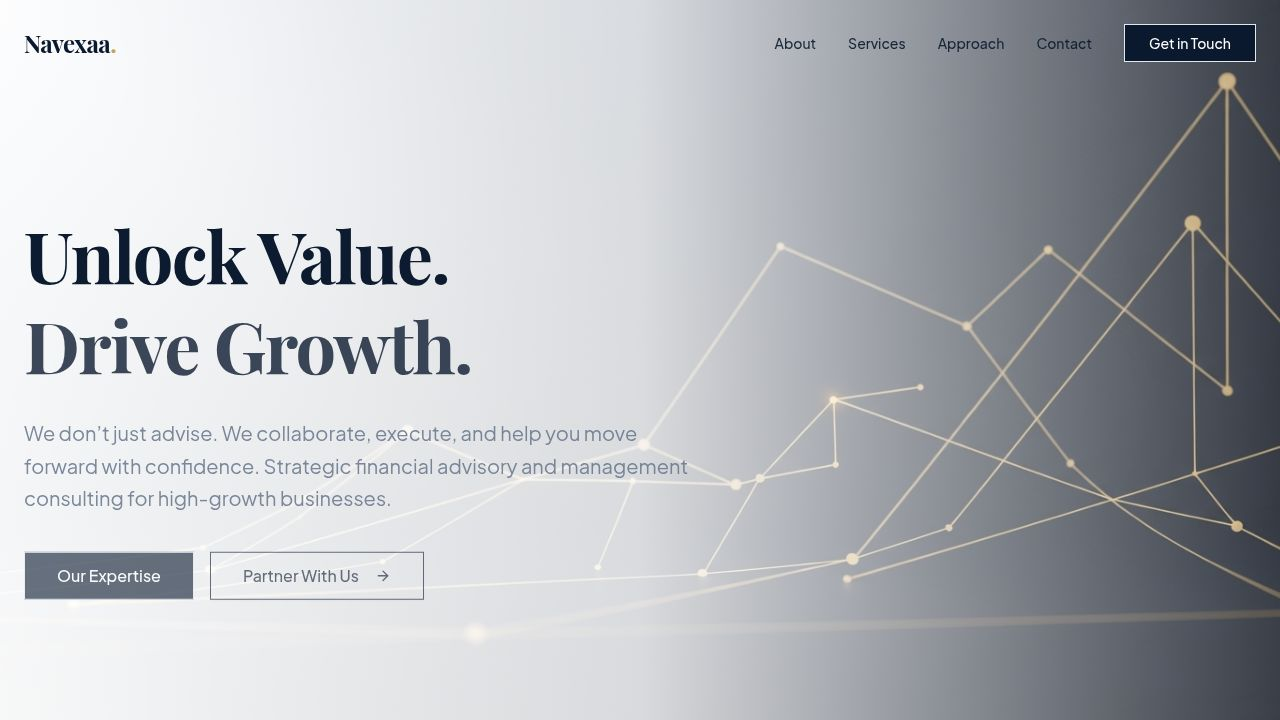
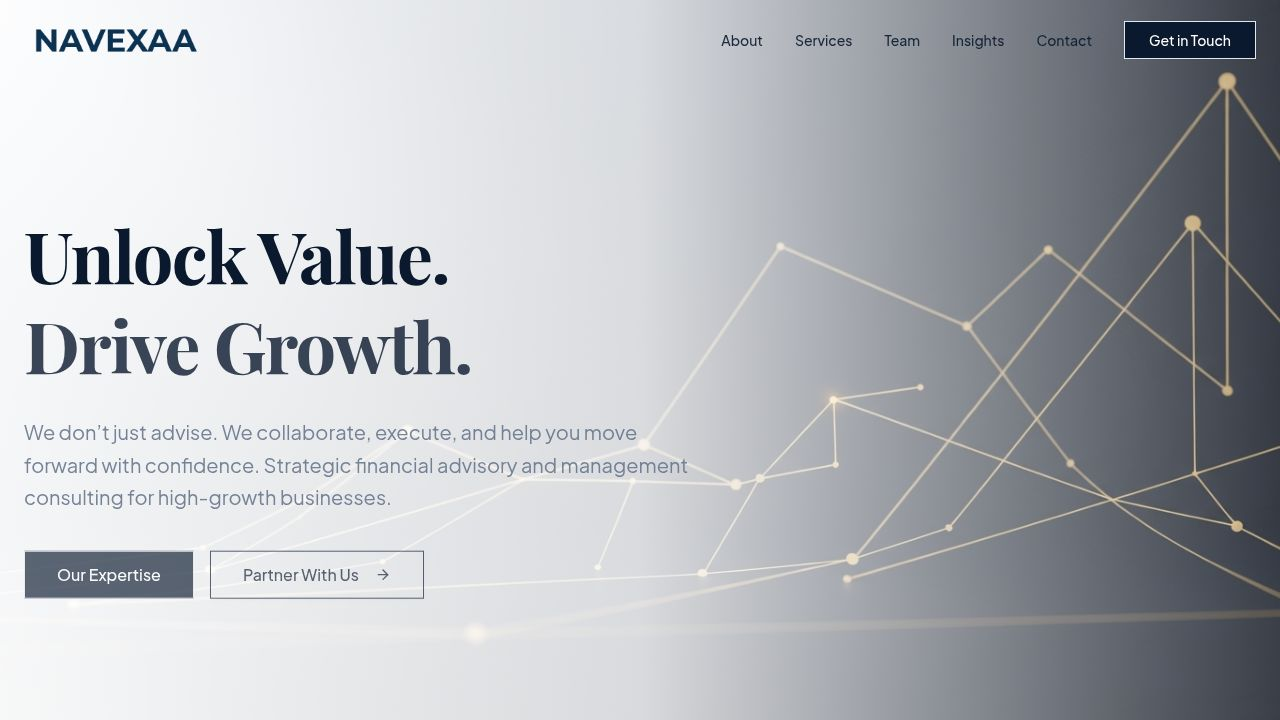
Add team and insights sections to the single-page website
Introduce new components for Team and Insights sections, update Navbar links, and reorder content on the Home page.

Replit-Commit-Author: Agent
Replit-Commit-Session-Id: 582ca545-1f77-4e9e-a5a8-dbba6315ee4e
Replit-Commit-Checkpoint-Type: full_checkpoint
Replit-Commit-Event-Id: 22889be7-af7b-426f-9181-062e57f843b9
Replit-Commit-Screenshot-Url: https://storage.googleapis.com/screenshot-production-us-central1/f280cfe2-ad05-4ddd-927b-cc61a10d2221/582ca545-1f77-4e9e-a5a8-dbba6315ee4e/9xKmfz8
Replit-Helium-Checkpoint-Created: true

diff --git a/client/src/components/sections/Team.tsx b/client/src/components/sections/Team.tsx
@@ -1,0 +1,75 @@
+import { motion } from "framer-motion";
+import { Card, CardContent, CardHeader, CardTitle } from "@/components/ui/card";
+import { Linkedin } from "lucide-react";
+
+const teamMembers = [
+  {
+    name: "Founder Name",
+    role: "Managing Partner",
+    bio: "Ex-Big 4 professional with over 15 years of experience in management consulting and financial advisory. Specializes in growth strategy and finance transformation.",
+    image: "https://images.unsplash.com/photo-1560250097-0b93528c311a?auto=format&fit=crop&q=80&w=200&h=200",
+    linkedin: "#"
+  },
+  {
+    name: "Partner Name",
+    role: "Senior Partner",
+    bio: "Strategic finance leader with a background in private equity and investment banking. Expert in business valuation and fundraising support.",
+    image: "https://images.unsplash.com/photo-1573496359142-b8d87734a5a2?auto=format&fit=crop&q=80&w=200&h=200",
+    linkedin: "#"
+  },
+  {
+    name: "Advisor Name",
+    role: "Consultant",
+    bio: "Operations expert focusing on process optimization and PMO support. Helps businesses build efficient financial foundations.",
+    image: "https://images.unsplash.com/photo-1472099645785-5658abf4ff4e?auto=format&fit=crop&q=80&w=200&h=200",
+    linkedin: "#"
+  }
+];
+
+export default function Team() {
+  return (
+    <section id="team" className="py-24 bg-white">
+      <div className="container mx-auto px-6">
+        <div className="text-center max-w-3xl mx-auto mb-16">
+          <h2 className="text-sm font-semibold tracking-widest text-accent uppercase mb-3">Our Expertise</h2>
+          <h3 className="text-3xl md:text-4xl font-serif font-bold text-primary mb-6">Led by Industry Professionals</h3>
+          <p className="text-muted-foreground text-lg">
+            Our team brings together institutional-grade rigor from Big-4 and top-tier advisory backgrounds.
+          </p>
+        </div>
+
+        <div className="grid md:grid-cols-3 gap-8 max-w-5xl mx-auto">
+          {teamMembers.map((member, index) => (
+            <motion.div
+              key={index}
+              initial={{ opacity: 0, y: 20 }}
+              whileInView={{ opacity: 1, y: 0 }}
+              viewport={{ once: true }}
+              transition={{ duration: 0.5, delay: index * 0.1 }}
+            >
+              <Card className="h-full border border-gray-100 shadow-sm hover:shadow-md transition-all duration-300 rounded-sm overflow-hidden group">
+                <div className="aspect-square overflow-hidden bg-gray-100">
+                  <img 
+                    src={member.image} 
+                    alt={member.name}
+                    className="w-full h-full object-cover transition-transform duration-500 group-hover:scale-105"
+                  />
+                </div>
+                <CardHeader className="pb-2">
+                  <CardTitle className="text-xl font-serif text-primary">{member.name}</CardTitle>
+                  <p className="text-accent text-sm font-semibold uppercase tracking-wider">{member.role}</p>
+                </CardHeader>
+                <CardContent>
+                  <p className="text-muted-foreground text-sm mb-4 leading-relaxed">{member.bio}</p>
+                  <a href={member.linkedin} className="text-primary hover:text-accent transition-colors">
+                    <Linkedin size={18} />
+                  </a>
+                </CardContent>
+              </Card>
+            </motion.div>
+          ))}
+        </div>
+      </div>
+    </section>
+  );
+}

diff --git a/client/src/components/sections/Insights.tsx b/client/src/components/sections/Insights.tsx
@@ -1,0 +1,68 @@
+import { motion } from "framer-motion";
+import { Card, CardContent, CardHeader, CardTitle } from "@/components/ui/card";
+import { ArrowUpRight } from "lucide-react";
+
+const insights = [
+  {
+    title: "Navigating Growth-Stage Fundraising",
+    category: "Fundraising",
+    date: "Dec 2025",
+    description: "Key strategies for startup founders to successfully navigate equity and debt fundraising in the current market environment."
+  },
+  {
+    title: "The Role of a Fractional CFO",
+    category: "Strategic Finance",
+    date: "Nov 2025",
+    description: "How growing SMEs can leverage senior financial leadership without the full-time overhead costs."
+  },
+  {
+    title: "Maximizing Business Valuation",
+    category: "Valuation",
+    date: "Oct 2025",
+    description: "Common pitfalls and best practices for preparing your company for a successful valuation exercise."
+  }
+];
+
+export default function Insights() {
+  return (
+    <section id="insights" className="py-24 bg-secondary/10">
+      <div className="container mx-auto px-6">
+        <div className="text-center max-w-3xl mx-auto mb-16">
+          <h2 className="text-sm font-semibold tracking-widest text-accent uppercase mb-3">Our Insights</h2>
+          <h3 className="text-3xl md:text-4xl font-serif font-bold text-primary mb-6">Expert Perspectives</h3>
+          <p className="text-muted-foreground text-lg">
+            Actionable insights for founders, CXOs, and investors on scaling sustainable businesses.
+          </p>
+        </div>
+
+        <div className="grid md:grid-cols-3 gap-8">
+          {insights.map((insight, index) => (
+            <motion.div
+              key={index}
+              initial={{ opacity: 0, y: 20 }}
+              whileInView={{ opacity: 1, y: 0 }}
+              viewport={{ once: true }}
+              transition={{ duration: 0.5, delay: index * 0.1 }}
+            >
+              <Card className="h-full border-none shadow-sm hover:shadow-md transition-all duration-300 rounded-sm bg-white overflow-hidden group cursor-pointer">
+                <CardHeader className="pb-2">
+                  <div className="flex justify-between items-center mb-4">
+                    <span className="text-xs font-bold text-accent uppercase tracking-widest">{insight.category}</span>
+                    <span className="text-xs text-muted-foreground">{insight.date}</span>
+                  </div>
+                  <CardTitle className="text-xl font-serif text-primary group-hover:text-accent transition-colors flex items-start justify-between gap-2">
+                    {insight.title}
+                    <ArrowUpRight className="h-5 w-5 shrink-0 opacity-0 group-hover:opacity-100 transition-opacity" />
+                  </CardTitle>
+                </CardHeader>
+                <CardContent>
+                  <p className="text-muted-foreground text-sm leading-relaxed">{insight.description}</p>
+                </CardContent>
+              </Card>
+            </motion.div>
+          ))}
+        </div>
+      </div>
+    </section>
+  );
+}

diff --git a/client/src/components/layout/Navbar.tsx b/client/src/components/layout/Navbar.tsx
@@ -20,20 +20,17 @@ export default function Navbar() {
   const navLinks = [
     { name: "About", href: "#about" },
     { name: "Services", href: "#services" },
+    { name: "Team", href: "#team" },
+    { name: "Insights", href: "#insights" },
     { name: "Contact", href: "#contact" },
-    { name: "Newsletters", href: "mailto:info@navexaa.com?subject=Subscribe to Newsletters" },
   ];
 
   const scrollToSection = (e: React.MouseEvent<HTMLAnchorElement>, href: string) => {
     e.preventDefault();
-    if (href.startsWith("mailto:")) {
-      window.location.href = href;
-    } else {
-      const element = document.querySelector(href);
-      if (element) {
-        element.scrollIntoView({ behavior: "smooth" });
-        setIsMobileMenuOpen(false);
-      }
+    const element = document.querySelector(href);
+    if (element) {
+      element.scrollIntoView({ behavior: "smooth" });
+      setIsMobileMenuOpen(false);
     }
   };
 

diff --git a/client/src/pages/Home.tsx b/client/src/pages/Home.tsx
@@ -2,7 +2,9 @@ import Navbar from "@/components/layout/Navbar";
 import Hero from "@/components/sections/Hero";
 import About from "@/components/sections/About";
 import Services from "@/components/sections/Services";
+import Team from "@/components/sections/Team";
 import Testimonials from "@/components/sections/Testimonials";
+import Insights from "@/components/sections/Insights";
 import Contact from "@/components/sections/Contact";
 import Footer from "@/components/layout/Footer";
 
@@ -12,9 +14,11 @@ export default function Home() {
       <Navbar />
       <main>
         <Hero />
-        <Services />
         <About />
+        <Services />
+        <Team />
         <Testimonials />
+        <Insights />
         <Contact />
       </main>
       <Footer />
